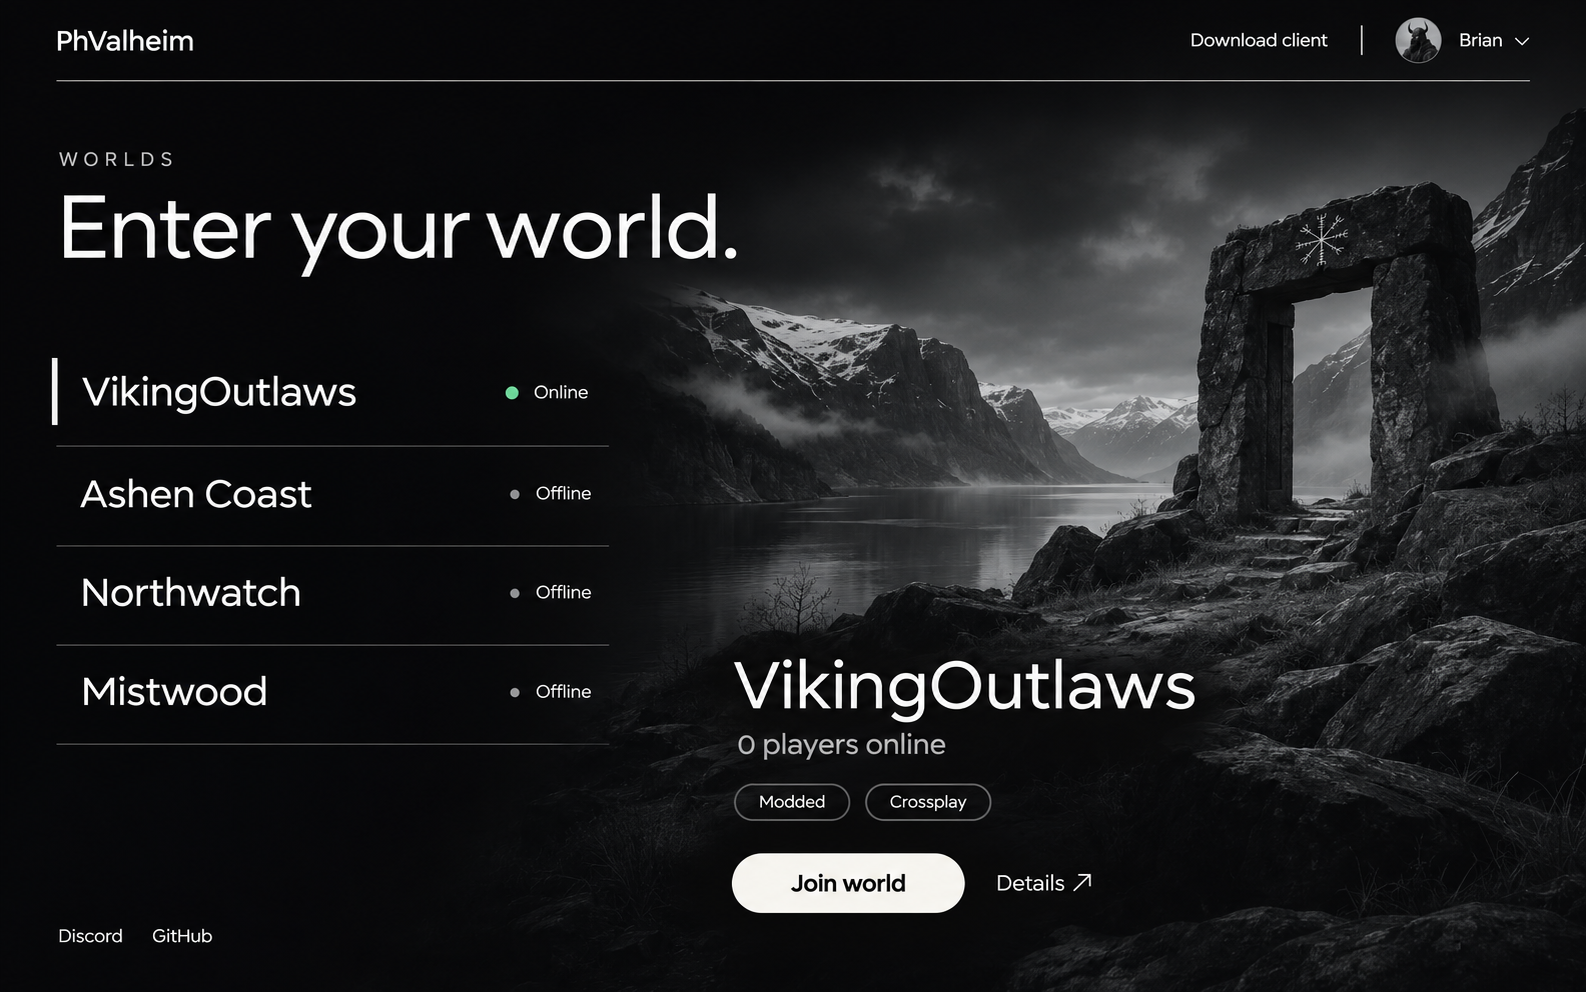
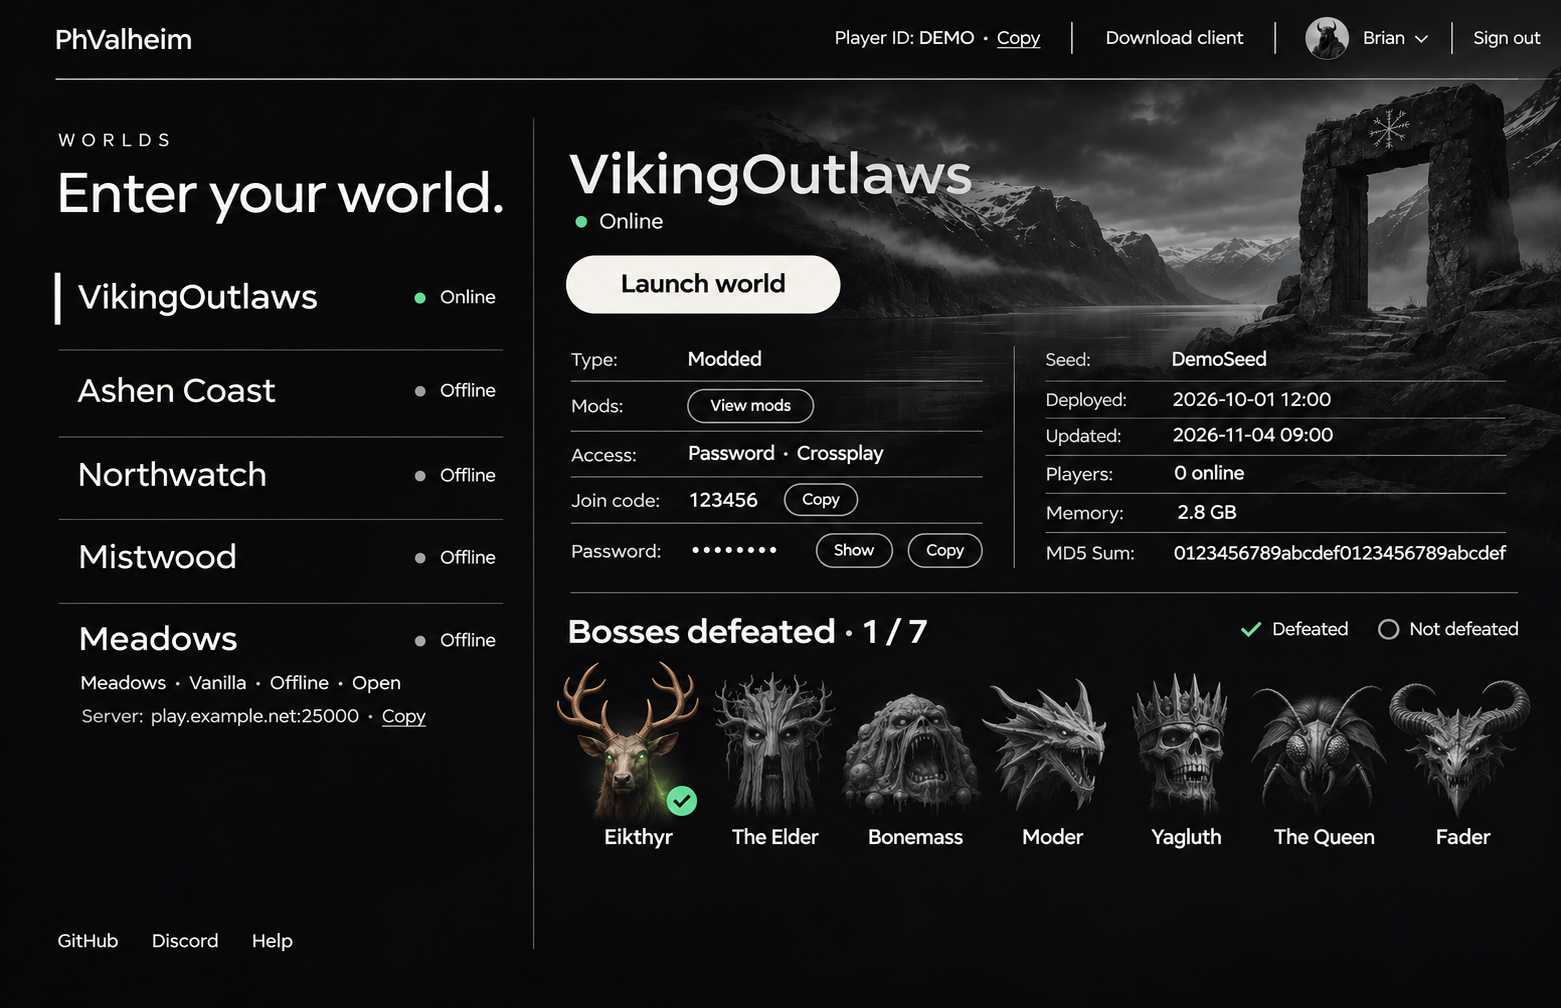
docs: restore boss progression and world details in all UI concepts

diff --git a/website/docs/design/public-ui-2.62.md b/website/docs/design/public-ui-2.62.md
@@ -8,7 +8,7 @@ Fourteen dark visual directions for the PhValheim player portal. **01. Classic R
 
 ## Compare the directions
 
-Use the current numbers and names when discussing or combining ideas. Classic Reforged was inserted first; earlier options 01–13 are now 02–14. Existing image URLs and earlier section links remain available. Click a rendering or its full-size link to inspect the original PNG.
+Use the current numbers and names when discussing or combining ideas. Classic Reforged was inserted first; earlier options 01–13 are now 02–14. Existing image URLs and earlier section links remain available. Click a rendering or its full-size link to inspect the revised PNG.
 
 | Option | Layout | Visual direction |
 | --- | --- | --- |
@@ -17,15 +17,31 @@ Use the current numbers and names when discussing or combining ideas. Classic Re
 | [03. The Gate](#03-the-gate) | Focused launcher | One featured world, a portal backdrop, and a world selector along the bottom. |
 | [04. Night Atlas](#04-night-atlas) | Directory + detail panel | A compact directory and detail panel over subtle map contours. |
 | [05. Ember](#05-ember) | World list + scenery | Warm ember accents, numbered navigation, and a dark longhouse scene. |
-| [06. Monolith](#06-monolith) | Poster gallery | Tall landscape posters put all four sample worlds side by side. |
+| [06. Monolith](#06-monolith) | Poster gallery | Landscape world posters pair with a complete selected-world detail shelf. |
 | [07. Fjord](#07-fjord) | Split screen | A wide fjord scene pairs with a narrow navigation and action column. |
 | [08. Blackglass](#08-blackglass) | Compact directory | A simple table reveals selected-world details below its row. |
-| [09. Moonwell](#09-moonwell) | Centered launcher | A circular lake image and a single centered Join action minimize distractions. |
+| [09. Moonwell](#09-moonwell) | Circular portrait + details | A circular lake image pairs with a complete detail panel and a prominent boss-head strip. |
 | [10. Runestone](#10-runestone) | Expandable rows | Numbered world rows expand the selected world into a scene and action area. |
 | [11. Horizon](#11-horizon) | Panorama + selector | A thin mountain panorama, one horizontal summary, and a bottom world selector. |
 | [12. Afterlight](#12-afterlight) | World list + scenery | Moonlit forest artwork and restrained violet accents frame a simple world list. |
 | [13. Northstar](#13-northstar) | Map selector | A compass-style selector explores a spatial alternative, with a List toggle. |
 | [14. Slate](#14-slate) | Split-pane directory | A searchable world list sits beside selected-world details and a progression strip. |
+
+## Information preserved from the current UI
+
+Every direction includes a visible selected-world detail view and a **Bosses defeated** strip with seven named boss-head illustrations: Eikthyr, The Elder, Bonemass, Moder, Yagluth, The Queen, and Fader. The sample highlights Eikthyr and leaves the other six unmarked. A count supplements the heads; it does not replace them.
+
+| Area | Information and controls |
+| --- | --- |
+| Account | Avatar, player name, sample player ID with copy action, client download, sign out |
+| World | Name, online/offline status, launch action, modded/vanilla type, player count, memory |
+| Mods and access | View mods, MD5 sum, access badges, password show/copy controls |
+| Connection | Crossplay join code with copy action; a separate vanilla example shows a direct server address |
+| History | Seed, deployed timestamp, updated timestamp |
+| Progression | Seven boss heads, names, defeated states, and an explanatory legend |
+| Community | GitHub, Discord, and help links |
+
+The drawings use sample data. An implementation must still respect world visibility, hidden seeds and passwords, access-list/open/password badges, offline states, and the applicable connection mode. A direct server address must not be offered for a crossplay world. Vanilla worlds retain their ordinary Valheim join flow; these mockups do not add boss reporting to vanilla servers.
 
 ## What to look for
 
@@ -39,11 +55,11 @@ Use the current numbers and names when discussing or combining ideas. Classic Re
 
 A cleaner, bolder evolution of the current public UI. It preserves the navy card grid, cyan world headings and borders, magenta launch emphasis, compact details, and boss progression strip. A tighter header, clearer hierarchy, aligned content, and readable offline cards strengthen the existing style.
 
-[![Classic Reforged concept: five navy world cards with cyan and magenta accents, a prominent launch action, compact details, and boss progression.](../assets/ui-concepts/2.62/classic-reforged.png)](../assets/ui-concepts/2.62/classic-reforged.png)
+[![Classic Reforged concept: five navy world cards with cyan and magenta accents, a prominent launch action, compact details, and boss progression Includes world details and seven named boss heads.](../assets/ui-concepts/2.62/classic-reforged.png)](../assets/ui-concepts/2.62/classic-reforged.png)
 
 [Open full-size PNG](../assets/ui-concepts/2.62/classic-reforged.png) · [Back to comparison](#compare-the-directions)
 
-**Review prompt:** Does this feel like the current PhValheim UI made clearer and more polished? Which details should stay on each card, and which should move into Advanced details?
+**Review prompt:** Does this feel like the current PhValheim UI made clearer and more polished? Are the world details and defeated-boss heads easy to scan without crowding each card?
 
 <a id="01-obsidian"></a>
 
@@ -51,7 +67,7 @@ A cleaner, bolder evolution of the current public UI. It preserves the navy card
 
 Monochrome fjord scenery beside a simple world list.
 
-[![Obsidian concept: Monochrome fjord scenery beside a simple world list.](../assets/ui-concepts/2.62/01-obsidian.png)](../assets/ui-concepts/2.62/01-obsidian.png)
+[![Obsidian concept: Monochrome fjord scenery beside a simple world list Includes world details and seven named boss heads.](../assets/ui-concepts/2.62/01-obsidian.png)](../assets/ui-concepts/2.62/01-obsidian.png)
 
 [Open full-size PNG](../assets/ui-concepts/2.62/01-obsidian.png) · [Back to comparison](#compare-the-directions)
 
@@ -63,7 +79,7 @@ Monochrome fjord scenery beside a simple world list.
 
 One featured world, a portal backdrop, and a world selector along the bottom.
 
-[![The Gate concept: One featured world, a portal backdrop, and a world selector along the bottom.](../assets/ui-concepts/2.62/02-the-gate.png)](../assets/ui-concepts/2.62/02-the-gate.png)
+[![The Gate concept: One featured world, a portal backdrop, and a world selector along the bottom Includes world details and seven named boss heads.](../assets/ui-concepts/2.62/02-the-gate.png)](../assets/ui-concepts/2.62/02-the-gate.png)
 
 [Open full-size PNG](../assets/ui-concepts/2.62/02-the-gate.png) · [Back to comparison](#compare-the-directions)
 
@@ -75,7 +91,7 @@ One featured world, a portal backdrop, and a world selector along the bottom.
 
 A compact directory and detail panel over subtle map contours.
 
-[![Night Atlas concept: A compact directory and detail panel over subtle map contours.](../assets/ui-concepts/2.62/03-night-atlas.png)](../assets/ui-concepts/2.62/03-night-atlas.png)
+[![Night Atlas concept: A compact directory and detail panel over subtle map contours Includes world details and seven named boss heads.](../assets/ui-concepts/2.62/03-night-atlas.png)](../assets/ui-concepts/2.62/03-night-atlas.png)
 
 [Open full-size PNG](../assets/ui-concepts/2.62/03-night-atlas.png) · [Back to comparison](#compare-the-directions)
 
@@ -87,7 +103,7 @@ A compact directory and detail panel over subtle map contours.
 
 Warm ember accents, numbered navigation, and a dark longhouse scene.
 
-[![Ember concept: Warm ember accents, numbered navigation, and a dark longhouse scene.](../assets/ui-concepts/2.62/04-ember.png)](../assets/ui-concepts/2.62/04-ember.png)
+[![Ember concept: Warm ember accents, numbered navigation, and a dark longhouse scene Includes world details and seven named boss heads.](../assets/ui-concepts/2.62/04-ember.png)](../assets/ui-concepts/2.62/04-ember.png)
 
 [Open full-size PNG](../assets/ui-concepts/2.62/04-ember.png) · [Back to comparison](#compare-the-directions)
 
@@ -97,9 +113,9 @@ Warm ember accents, numbered navigation, and a dark longhouse scene.
 
 ## 06. Monolith
 
-Tall landscape posters put all four sample worlds side by side.
+Landscape world posters pair with a complete selected-world detail shelf.
 
-[![Monolith concept: Tall landscape posters put all four sample worlds side by side.](../assets/ui-concepts/2.62/05-monolith.png)](../assets/ui-concepts/2.62/05-monolith.png)
+[![Monolith concept: Landscape world posters pair with a complete selected-world detail shelf Includes world details and seven named boss heads.](../assets/ui-concepts/2.62/05-monolith.png)](../assets/ui-concepts/2.62/05-monolith.png)
 
 [Open full-size PNG](../assets/ui-concepts/2.62/05-monolith.png) · [Back to comparison](#compare-the-directions)
 
@@ -111,7 +127,7 @@ Tall landscape posters put all four sample worlds side by side.
 
 A wide fjord scene pairs with a narrow navigation and action column.
 
-[![Fjord concept: A wide fjord scene pairs with a narrow navigation and action column.](../assets/ui-concepts/2.62/06-fjord.png)](../assets/ui-concepts/2.62/06-fjord.png)
+[![Fjord concept: A wide fjord scene pairs with a narrow navigation and action column Includes world details and seven named boss heads.](../assets/ui-concepts/2.62/06-fjord.png)](../assets/ui-concepts/2.62/06-fjord.png)
 
 [Open full-size PNG](../assets/ui-concepts/2.62/06-fjord.png) · [Back to comparison](#compare-the-directions)
 
@@ -123,7 +139,7 @@ A wide fjord scene pairs with a narrow navigation and action column.
 
 A simple table reveals selected-world details below its row.
 
-[![Blackglass concept: A simple table reveals selected-world details below its row.](../assets/ui-concepts/2.62/07-blackglass.png)](../assets/ui-concepts/2.62/07-blackglass.png)
+[![Blackglass concept: A simple table reveals selected-world details below its row Includes world details and seven named boss heads.](../assets/ui-concepts/2.62/07-blackglass.png)](../assets/ui-concepts/2.62/07-blackglass.png)
 
 [Open full-size PNG](../assets/ui-concepts/2.62/07-blackglass.png) · [Back to comparison](#compare-the-directions)
 
@@ -133,9 +149,9 @@ A simple table reveals selected-world details below its row.
 
 ## 09. Moonwell
 
-A circular lake image and a single centered Join action minimize distractions.
+A circular lake image pairs with a complete detail panel and a prominent boss-head strip.
 
-[![Moonwell concept: A circular lake image and a single centered Join action minimize distractions.](../assets/ui-concepts/2.62/08-moonwell.png)](../assets/ui-concepts/2.62/08-moonwell.png)
+[![Moonwell concept: A circular lake image pairs with a complete detail panel and a prominent boss-head strip Includes world details and seven named boss heads.](../assets/ui-concepts/2.62/08-moonwell.png)](../assets/ui-concepts/2.62/08-moonwell.png)
 
 [Open full-size PNG](../assets/ui-concepts/2.62/08-moonwell.png) · [Back to comparison](#compare-the-directions)
 
@@ -147,7 +163,7 @@ A circular lake image and a single centered Join action minimize distractions.
 
 Numbered world rows expand the selected world into a scene and action area.
 
-[![Runestone concept: Numbered world rows expand the selected world into a scene and action area.](../assets/ui-concepts/2.62/09-runestone.png)](../assets/ui-concepts/2.62/09-runestone.png)
+[![Runestone concept: Numbered world rows expand the selected world into a scene and action area Includes world details and seven named boss heads.](../assets/ui-concepts/2.62/09-runestone.png)](../assets/ui-concepts/2.62/09-runestone.png)
 
 [Open full-size PNG](../assets/ui-concepts/2.62/09-runestone.png) · [Back to comparison](#compare-the-directions)
 
@@ -159,7 +175,7 @@ Numbered world rows expand the selected world into a scene and action area.
 
 A thin mountain panorama, one horizontal summary, and a bottom world selector.
 
-[![Horizon concept: A thin mountain panorama, one horizontal summary, and a bottom world selector.](../assets/ui-concepts/2.62/10-horizon.png)](../assets/ui-concepts/2.62/10-horizon.png)
+[![Horizon concept: A thin mountain panorama, one horizontal summary, and a bottom world selector Includes world details and seven named boss heads.](../assets/ui-concepts/2.62/10-horizon.png)](../assets/ui-concepts/2.62/10-horizon.png)
 
 [Open full-size PNG](../assets/ui-concepts/2.62/10-horizon.png) · [Back to comparison](#compare-the-directions)
 
@@ -171,7 +187,7 @@ A thin mountain panorama, one horizontal summary, and a bottom world selector.
 
 Moonlit forest artwork and restrained violet accents frame a simple world list.
 
-[![Afterlight concept: Moonlit forest artwork and restrained violet accents frame a simple world list.](../assets/ui-concepts/2.62/11-afterlight.png)](../assets/ui-concepts/2.62/11-afterlight.png)
+[![Afterlight concept: Moonlit forest artwork and restrained violet accents frame a simple world list Includes world details and seven named boss heads.](../assets/ui-concepts/2.62/11-afterlight.png)](../assets/ui-concepts/2.62/11-afterlight.png)
 
 [Open full-size PNG](../assets/ui-concepts/2.62/11-afterlight.png) · [Back to comparison](#compare-the-directions)
 
@@ -183,7 +199,7 @@ Moonlit forest artwork and restrained violet accents frame a simple world list.
 
 A compass-style selector explores a spatial alternative, with a List toggle.
 
-[![Northstar concept: A compass-style selector explores a spatial alternative, with a List toggle.](../assets/ui-concepts/2.62/12-northstar.png)](../assets/ui-concepts/2.62/12-northstar.png)
+[![Northstar concept: A compass-style selector explores a spatial alternative, with a List toggle Includes world details and seven named boss heads.](../assets/ui-concepts/2.62/12-northstar.png)](../assets/ui-concepts/2.62/12-northstar.png)
 
 [Open full-size PNG](../assets/ui-concepts/2.62/12-northstar.png) · [Back to comparison](#compare-the-directions)
 
@@ -195,7 +211,7 @@ A compass-style selector explores a spatial alternative, with a List toggle.
 
 A searchable world list sits beside selected-world details and a progression strip.
 
-[![Slate concept: A searchable world list sits beside selected-world details and a progression strip.](../assets/ui-concepts/2.62/13-slate.png)](../assets/ui-concepts/2.62/13-slate.png)
+[![Slate concept: A searchable world list sits beside selected-world details and a progression strip Includes world details and seven named boss heads.](../assets/ui-concepts/2.62/13-slate.png)](../assets/ui-concepts/2.62/13-slate.png)
 
 [Open full-size PNG](../assets/ui-concepts/2.62/13-slate.png) · [Back to comparison](#compare-the-directions)
 
@@ -222,4 +238,4 @@ Design decisions and implementation tracking belong in the issue. This gallery i
 
 Created on 4 November 2026 with OpenAI image generation for PhValheim design review. These are illustrative concept images, not screenshots of a running server; landscape art, symbols, and boss representations are not final production assets. Desktop composition is shown here; mobile layouts and accessible interactions need separate design and validation.
 
-All fourteen PNGs are original renderings. The thirteen earlier images and their filenames remain unchanged to preserve shared links; display numbers in this gallery determine review order. [Image provenance and file inventory](../assets/ui-concepts/2.62/README.md).
+All fourteen renderings were revised to restore boss-head progression and the current UI information. Existing filenames, option numbers, and earlier section links are retained; previous artwork remains in Git history. [Image provenance and file inventory](../assets/ui-concepts/2.62/README.md).

diff --git a/website/docs/assets/ui-concepts/2.62/PROMPTS.md b/website/docs/assets/ui-concepts/2.62/PROMPTS.md
@@ -1,0 +1,70 @@
+# Rendering revision prompts
+
+These UI mockups were revised with the built-in OpenAI imagegen tool. Each call used the corresponding previous PNG as its edit target, with the shared prompt followed by that concept's layout instruction. No live server screenshot or account data is distributed.
+
+## Shared prompt
+
+Use case: ui-mockup edit. Revise the attached PhValheim player portal concept to restore original UI information and the BOSSES DEFEATED feature. Keep the distinctive layout, imagery, typography, and palette. Make information legible with clean spacing. Rebalance scenery/empty space to fit a fully VISIBLE selected-world information panel, not collapsed controls. Landscape screenshot around 1586x992, polished and dark.
+All these fields must be visible for selected world VikingOutlaws: Online; Launch world; Type: Modded; Mods: View mods; Access: Password · Crossplay; Join code: 123456 with Copy; Password: •••••••• with Show and Copy; Seed: DemoSeed; Deployed: 2026-10-01 12:00; Updated: 2026-11-04 09:00; Players: 0 online; Memory: 2.8 GB; MD5 Sum: 0123456789abcdef0123456789abcdef.
+Prominent world progression: label "Bosses defeated · 1 / 7". A horizontal strip of EXACTLY SEVEN distinct recognizable fantasy boss-head trophy illustrations in this order, each with its readable name: Eikthyr, The Elder, Bonemass, Moder, Yagluth, The Queen, Fader. Antlered stag, wood mask, swamp head, dragon head, skeletal crown, insect queen, horned dragon. First boss bright accent with checkmark, remaining six muted but readable. Legend "✓ Defeated   ○ Not defeated". Do not replace the seven heads with dots or a progress bar. Never write hung/trophies hung as the feature label.
+Header: PhValheim, avatar or account icon, Brian, "Player ID: DEMO · Copy", Download client, Sign out. Footer GitHub, Discord, Help.
+Retain world selection and readable offline states using only VikingOutlaws, Ashen Coast, Northwatch, Mistwood, Meadows. No real Steam IDs, network addresses, passwords or offensive names. Also demonstrate direct connection for a separate vanilla offline world as a compact detail: "Meadows · Vanilla · Offline · Open" and "Server: play.example.net:25000 · Copy". Do not imply vanilla needs PhValheim launcher. Never show a direct server address for the selected crossplay world.
+All essential labels and values must actually be drawn legibly, not implied behind Details. No unrelated features. Keep the original concept identifiable and aesthetically clean.
+
+## Layout instructions
+
+### classic-reforged
+
+Keep the navy cyan/magenta card grid. Expand selected card or associated full information panel; keep muted offline cards with details entry points. No boss strips on vanilla cards.
+
+### 01-obsidian
+
+Keep the monochrome fjord and standing stone scene, world list left, full selected-world panel right over dark scrim. Reduce giant heading/scenery as needed.
+
+### 02-the-gate
+
+Keep dramatic blue moonlit stone portal background and bottom world selector. Expand left launcher into complete information panel, seven boss heads below fields. Keep portal visible right.
+
+### 03-night-atlas
+
+Keep black contour map texture, directory left and sage-accent detail panel right. Shrink scenic panel to fit fully visible information and seven boss heads.
+
+### 04-ember
+
+Keep warm burnt-orange accents, numbered left navigation and longhouse scene. Put information in compact columns below a shorter landscape scene, boss strip prominently visible.
+
+### 05-monolith
+
+Keep tall monochrome world poster cards across top. Reduce poster height to allow full selected-world information in a clean full-width shelf below, with seven boss heads. Retain poster-gallery identity.
+
+### 06-fjord
+
+Keep expansive fjord photo left and world navigation right. Use a dark panel below/over lower part of scenery for the full selected-world information and boss strip. Do not abandon split composition.
+
+### 07-blackglass
+
+Keep almost black table-style world directory and expandable rows. Expand selected row to show all world details and seven boss heads. No scenery needed; preserve compact understated style.
+
+### 08-moonwell
+
+Keep centered launcher and circular moonlit lake image, reduce circle diameter to make room. Add balanced information columns and seven boss heads below it. Keep centered composition and bottom world links.
+
+### 09-runestone
+
+Keep bold numbered expandable world rows and basalt coast imagery. Expand first row with complete information and seven boss heads; other rows remain compact. Preserve runestone glyphs.
+
+### 10-horizon
+
+Keep thin panoramic mountain strip, horizontal world summary, and bottom capsule world selector. Add clean information columns and seven boss heads between summary and selector.
+
+### 11-afterlight
+
+Keep moonlit snowy forest, restrained violet accents, world list left. Shorten scenery to make room for full information panel right and seven boss heads.
+
+### 12-northstar
+
+Keep compass-style circular map world selector left with Map/List toggle, complete selected-world information right. Include seven actual boss heads replacing any abstract progression circles.
+
+### 13-slate
+
+Keep searchable world list left and selected-world details right over restrained fjord scene. Expand right details and replace the old progression dots with seven recognizable named boss heads.

diff --git a/website/docs/assets/ui-concepts/2.62/README.md b/website/docs/assets/ui-concepts/2.62/README.md
@@ -1,10 +1,10 @@
 # Public UI concept images — 2.62
 
-Original AI-generated renderings for contributor design review. Created with OpenAI image generation on 4 November 2026. No live server captures or production assets are included. The gallery uses neutral sample world names.
+Revised AI-generated renderings for contributor design review. Created with OpenAI image generation on 4 November 2026. No live server captures or production assets are included. The gallery uses neutral sample world names.
 
 [View the complete gallery](../../../design/public-ui-2.62.md).
 
-Files are original PNGs, copied without visual edits. Checksums are in [SHA256SUMS](SHA256SUMS). Classic Reforged is displayed first as option 01. The earlier thirteen concepts now appear as 02–14. Their existing filenames remain stable so previously shared image links keep working; the review number below determines display order.
+All fourteen concepts were edited with the built-in imagegen tool to restore the original UI information and a seven-head Bosses defeated strip. Files are copied directly from the generated output without manual raster edits. [Revision prompts](PROMPTS.md) document the shared requirements and layout instructions. Previous artwork remains in Git history. Checksums are in [SHA256SUMS](SHA256SUMS). Classic Reforged is displayed first as option 01. The earlier thirteen concepts now appear as 02–14. Their existing filenames remain stable so previously shared image links keep working; the review number below determines display order.
 
 | Review option | File | Concept |
 | --- | --- | --- |
